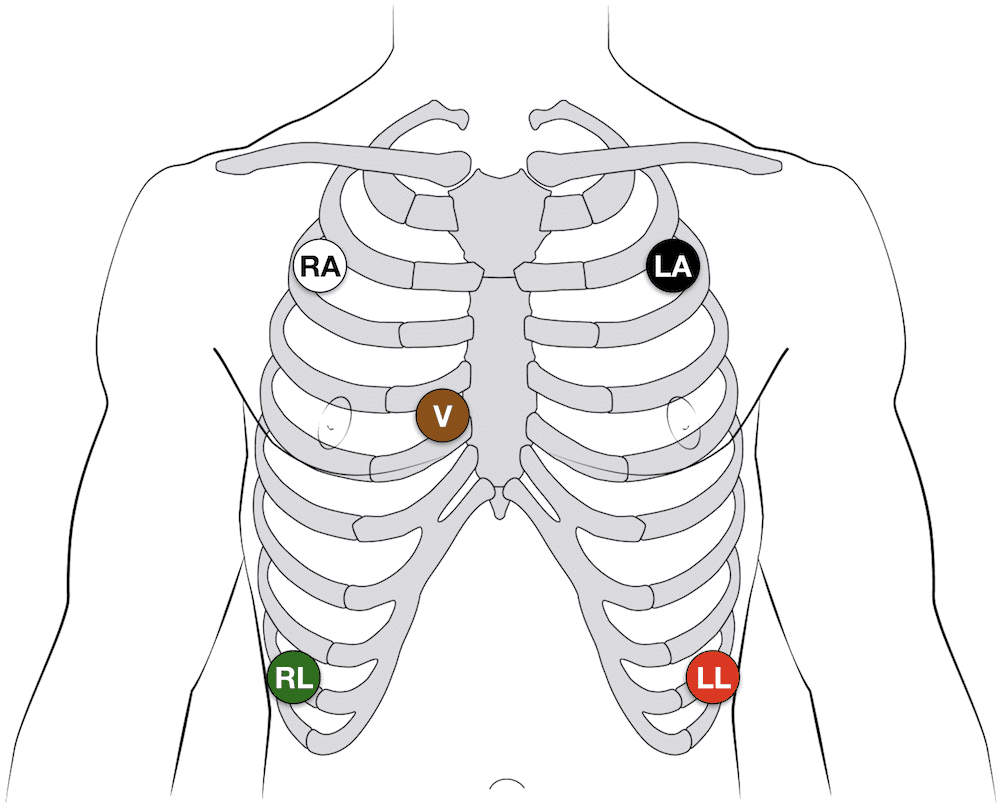
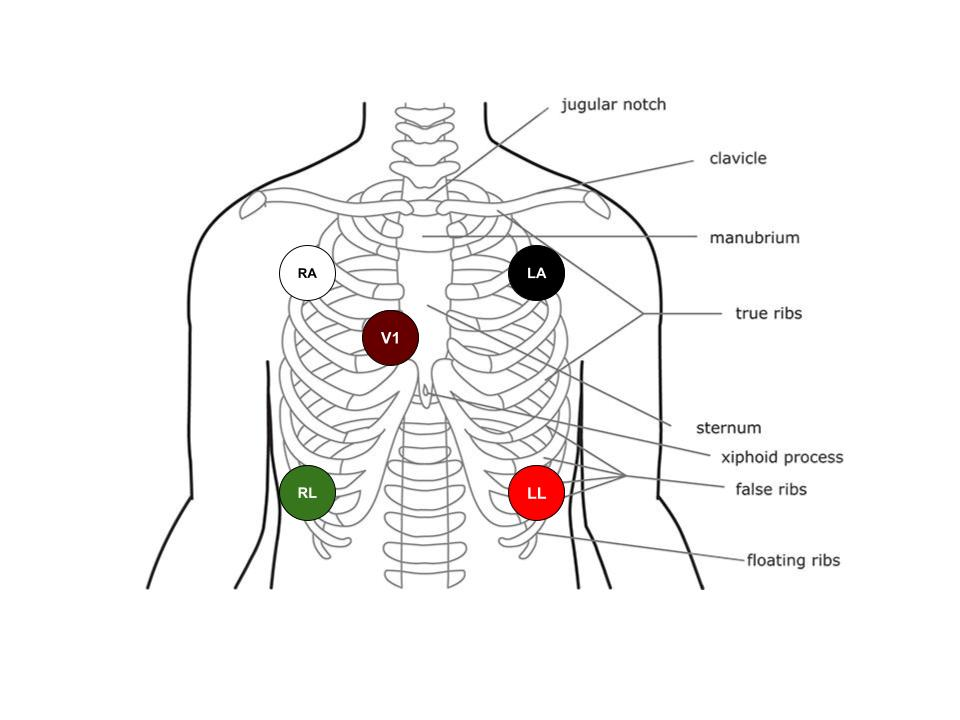
back-to-drawer nav, disclaimer widget, airway items massive updates

diff --git a/js/data.js b/js/data.js
@@ -475,13 +475,13 @@ window.PYXIS_MEDICATIONS = {
 /** Supply bin taxonomy (10 items, 2 rows × 5 columns) */
 window.PYXIS_SUPPLY_BINS = [
   // Row 1
-  { id: "tube-caps",     label: "Tube caps",    row: 1, description: "Red and green tube caps for IV ports and stopcocks. Red = no additive (blood draws), Green = heparinized flush. Know your institution's color coding." },
-  { id: "tourniquets",   label: "Tourniquets",  row: 1, description: "Used for IV placement — tighten proximal to intended IV site to engorge veins. Release as soon as flashback is seen. PIV placement tutorial coming soon." },
+  { id: "tube-caps",     label: "Tube caps",    row: 1, description: "Red and green tube caps for IV ports and stopcocks. Red = no additive (blood draws), Green = alcohol-based disinfecting cap. This is Yale's color coding, but make sure to know your institution's color coding. You may be asked to fetch caps from supply bins based on their color or context." },
+  { id: "tourniquets",   label: "Tourniquets",  row: 1, description: "Used for IV placement. Tighten proximal to intended IV site to engorge veins. For example, if you are aiming to place a PIV in a hand vein, it is appropriate to tie to tourniquet using proper technique at the forearm or above the antecubital fossa. Try not to place the PIV on the same side as the blood pressure cuff. The tourniquet should be released after the IV catheter is threaded into the vein. A detailed PIV placement tutorial is coming soon!" },
   { id: "alcohol-wipes", label: "Alcohol wipes", row: 1, description: "70% isopropyl pads for IV site prep, needle prep, and general antisepsis. Allow to dry before insertion for best effect." },
   { id: "gauze",         label: "Gauze + Saline Flushes",         row: 1, description: "You may find it useful to have a bunch of 4×4 gauze pads for field prep, bleeding control, airway work, and general OR use. Saline flushes are also often useful for pushing/mixing drugs or cleaning things. One way to be helpful in the OR is to help the team apply gauze to patients' wounds and incisions to control bleeding, or use saline flushes with gauze to clean up blood, spills, saliva, tears, or other bodily fluids. Remember, the saline inside the flush is sterile but the syringe itself is NOT!" },
   { id: "tape",          label: "Tape",          row: 1, description: "Multiple types: silk tape for ETT securing, paper tape for wound wrapping, clear Tegaderm-style for A-lines and IVs. Know which tape for which use." },
   // Row 2
-  { id: "ecg-stickers",  label: "ECG stickers",  row: 2, description: "5-lead ECG electrode pads (RA, LA, RL, LL, V lead). One of the easiest ways you can help out in both the OR and postop is to help the team place ECG lead stickers and monitors on patients. Make sure you place them with full contact and correctly to minimize artifacts! Remember the mnemonic: clouds over grass, smoke over fire, dirt in between." },
+  { id: "ecg-stickers",  label: "ECG stickers",  row: 2, description: "5-lead ECG electrode pads (RA, LA, RL, LL, V1 lead). One of the easiest ways you can help out in both the OR and postop is to help the team place ECG lead stickers and monitors on patients. Make sure you place them with full contact and correctly to minimize artifacts! This configuration of 5-leads ECG is known as the Mason-Likar Lead system, meant to reduce motion artifact during continuous monitoring while allowing patient mobility. Specifically, the V1 lead is placed in the 4th intercostal space at the right sternal border, commonly used for arrhythmia monitoring (Circulation, Sandau et al, 2017). Other V-lead placements along the 4th and 5th intercostal spaces across the left side of the chest (think back to our standard 12-lead configuration) are commonly used to monitor myocardial ischemia. When helping set up the patient monitors, remember the mnemonic: clouds over grass, smoke over fire, dirt in between." },
   { id: "oral-airways",  label: "Oral airways",  row: 2, description: "OPAs for maintaining airway in unconscious patients. Size by measuring corner of mouth to earlobe. Do not use in conscious patients as it triggers gag reflex. For patients with difficult airways to unresposive to normal masking, these may be super helpful to keep in mind." },
   { id: "lab-tubes",     label: "Lab tubes",     row: 2, description: "Blood collection tubes: purple top (EDTA → CBC), green top (lithium heparin → BMP), blue top (citrate → coag/PT/INR), gold top (serum separator → type & screen)." },
   { id: "tegaderms",     label: "Tegaderms",     row: 2, description: "Transparent polyurethane film dressing, standard for securing peripheral IVs and central line sites while maintaining visualization of the insertion site. One useful thing you can do in the morning is to help prepare PIV kits, which require TWO tegaderms, one 18G, one 20G needles, alcohol wipes, tourniquets, gauze, saline flush, and IV extension connectors." },
@@ -514,12 +514,13 @@ window.PYXIS_LEFT_DRAWERS = [
     label: "Airway",
     shortLabel: "Airway",
     items: [
-      { id: "mac-blade",   name: "MAC Blade",           category: "Laryngoscopy",           description: "Curved Macintosh blade — tip goes in the vallecula (anterior to epiglottis). Common sizes: MAC 3 (average adult), MAC 4 (large adult). Technique: lift the handle forward-upward, never lever on the teeth." },
-      { id: "ett",         name: "Endotracheal Tube",   category: "Intubation",             description: "Cuffed tubes for a definitive airway. Adults: 7.0–7.5 ID for females, 7.5–8.0 ID for males. Confirm position: bilateral breath sounds, ETCO₂ waveform, symmetric chest rise, CXR." },
-      { id: "lma",         name: "LMA",                 category: "Supraglottic airway",    description: "Laryngeal Mask Airway — sits in the hypopharynx over the laryngeal inlet. Does NOT protect against aspiration. Classic, ProSeal, i-gel variants available. Size by patient weight." },
-      { id: "glidescope",  name: "GlideScope",          category: "Video laryngoscopy",     description: "Video laryngoscope with a 60° blade curve. Provides indirect view without direct line-of-sight. Use with a malleable stylet shaped to the blade curve. Particularly helpful in anticipated difficult airways." },
-      { id: "bougie",      name: "Bougie",              category: "Difficult airway adjunct", description: "Tracheal introducer — used when you can visualize the epiglottis but not the cords. Insert under epiglottis, feel 'tracheal clicks', thread ETT over bougie. Essential rescue tool in unexpected difficult airways." },
-      { id: "bag-mask",    name: "Bag-Valve Mask",      category: "Emergency ventilation",  description: "BVM for manual ventilation — preoxygenation, rescue BMV during failed intubation, or patient transport. EC-clamp grip for 1-person mask seal. 2-person technique (one seals, one squeezes) if significant leak." },
+      { id: "mac-blade",   name: "MAC Blade",           category: "Laryngoscopy",           description: "A Macintosh (Mac) blade is a curved laryngoscope blade used for direct laryngoscopy that is inserted into the vallecula (the space between the base of the tongue and the epiglottis) to indirectly lift the epiglottis and expose the vocal cords for endotracheal intubation. Insertion technique is to bring the patient head to your sternum to optimize visibility of the cords. The blade is inserted into the right side of the mouth, then advanced while sweeping the tongue to the left. The tip is positioned in the vallecula, and the entire blade is lifted upward and forward at a 45-degree angle (in the direction of the handle) to expose the glottis. Insert gently and do NOT lever the blade (called 'rocking') - it neither helps visualize and risks tooth chipping and trauma. Contrast to a Miller blade, which has more of a straight blade meant for anterior larynx, large floppy epiglottis, or limited mouth openings." },
+      { id: "ett",         name: "Endotracheal Tube",   category: "Intubation",             description: "An endotracheal tube (ETT) is a flexible plastic tube inserted through the mouth or nose into the trachea to establish a definitive airway for mechanical ventilation, airway protection, and oxygenation in critically ill or anesthetized patients. Key components include the tube body (with centimeter deep markings), angled bevel (at the tip to aid insertion), murphy eye (side hole that allows for alternative airway), cuff (inflatable balloon that seals the airway), and a connector to the ventilator. ETTs are sized by internal diameter in millimeters. Common adult sizes are 7.0-8.0 mm, though the outer diameter varies by manufacturer even with the same ID. Height-based selection is more accurate than sex-based selection: typically 7.0 mm for height ≤160 cm, 7.5 mm for 161-179 cm, and 8.0 mm for ≥180 cm. Pediatric tube sizing is typically age divided by 4 + 4 for uncuffed, + 3.5 for cuffed. Insertion depth is usually the internal diameter number multiplied by 3." },
+      { id: "lma",         name: "LMA",                 category: "Supraglottic airway",    description: "LMAs are sized 1-6 based on patient weight. Common adult sizes are size 3 (30-50 kg), size 4 (50-70 kg), and size 5 (>70 kg). However, sex-based selection (size 4 for females, size 5 for males) often provides better seal and less air leak than weight-based selection. Larger sizes generally provide higher oropharyngeal leak pressures and better fiberoptic views. A key consideration is that LMAs do NOT protect against aspiration, so contraindicated in patients with full stomach, emergency surgery, obesity, pregnancy, symptomatic GERD, or hiatal hernia. It's also less suitable for procedures requiring high airway pressures (>20-25 cmH₂O) due to risk of gastric insufflation. Otherwise, key advantages include easy insertion without laryngoscopy, less hemodynamic and airway stimulation, and can be used for both spontaneous and positive pressure ventilation. Classic, ProSeal, i-gel variants available. Image courtesy of Lighthall et al, NEJM, 2013." },
+      { id: "glidescope",  name: "GlideScope",          category: "Video laryngoscopy",     description: "Video laryngoscopy is an intubation technique that uses a laryngoscope with a camera at the tip of the blade that displays the airway on a video screen, allowing visualization of the vocal cords without requiring a direct line of sight from the mouth. At Yale, we use the GlideScope, with clear plastic, single-use interchangeable MAC blades. GlideScope is a specific brand of video laryngoscope characterized by its acutely angled (hyperangulated) blade that provides an improved glottic view. We typically use a MAC 3 blade, but sometimes use MAC 4 for bigger adults. Due to hyperangulation, sometimes you may need to sweep the tongue out of the way to advance the blade. As you advance, make sure to visualize the epiglottis and insert the tip of the blade into the vallecula. Other tips and tricks for consistent intubation success with the GlideScope are coming soon!" },
+      { id: "bougie",      name: "Bougie",              category: "Difficult airway adjunct", description: "A bougie (also called a tracheal tube introducer or Eschmann stylet) is a long, semi-rigid, flexible guide used to facilitate endotracheal intubation when the glottic opening is difficult to visualize. It serves as a 'railroad track' over which the endotracheal tube can be advanced into the trachea. Indications usually for difficult intubations, which can be objectively graded using the Cormack-Lehane scale (Annals of Emergency Medicine, Latimer et al, 2020). During laryngoscopy, the bougie is advanced with the angled tip pointing anteriorly toward the expected glottic opening. Once inserted, glottic opening.tracheal placement is confirmed by feeling 'tracheal clicks' as the tip bumps along the cartilaginous tracheal rings, and/or 'hold-up' at approximately 28-32 cm when the tip reaches a distal bronchus. The ETT is then railroaded over the bougie with a 90-degree counterclockwise rotation to prevent the tube tip from catching on the arytenoids." },
+      { id: "bag-mask",    name: "Bag-Valve Mask",      category: "Emergency ventilation",  description: "Bag-valve-mask ventilation is a manual positive-pressure ventilation technique using a self-inflating bag connected to a face mask to provide oxygenation and ventilation to patients who cannot breathe adequately on their own. Indications include respiratory arrest, cardiac arrest, apnea during RSI, failed intubation, or preoxygenation before definitive airway attempts. You may be asked to perform mask ventilation for preoxygenation in the OR, or occasionally for emergency indications in the ICU/emergency room rotation. Proper technique is called the E-C clamp. It is a one-handed technique where the thumb and index finger form a 'C' shape to create an airtight seal over the nose and mouth, while the remaining three fingers (middle, ring, pinky) form an 'E' shape along the lower edge of the jaw to elevate the mandible and open the airway. This technique simultaneously achieves mask seal and airway patency through jaw thrust/chin lift. OPAs/NPAs may assist in increasing ventilation, and parameters should be adjusted to respiratory rate of 10/min, inspiratory time of 1 second, and tidal volumes of 500~600 mL (NEJM, Casey et al, 2019). Confirm effectiveness by observing symmetric chest rise, breath sounds, and if available, ETCO₂ waveform. Remember, two-person technique has been shown to always be superior to one-person, if available. Image courtesy of Shrestha et al, NEJM, 2021." },
+      { id: "afio",    name: "Fiberoptic Intubation",      category: "Difficult airway adjunct",  description: "Fiberoptic intubation (FOI) is a technique using a flexible bronchoscope to visualize the airway in real-time and guide an endotracheal tube into the trachea. It is considered the gold standard for managing anticipated difficult or even threatened airways (e.g. parapharyngeal abscess with worsening trismus, odynophagia, and respiratory symptoms), particularly when performed with the patient awake and spontaneously breathing. It includes a flexible bronchoscope and a pre-loaded endotracheal tube (usually a nasopharyngeal access). The ASA Difficult Airway Algorithm is the key criteria for determining awake vs. asleep intubations. In awake fiberoptic intubations, the patient is kept awake with conscious sedation on low-dose dexmetomidine. The airway is locally anesthesized using lidocaine nebulizers in an 'as-you-go' fashion (be careful with CKD patients for lidocaine). Do NOT put the patient to sleep before you achieve an airway in threatened patients. Oxymetazoline and glycopyrrolate as necessary. Always have video laryngoscopy, LMA, and a surgical (ENT preferred) team present in case you need to do an awake tracheostomy. One way of assessing airway difficulty that you may see in anesthesia pre-op patient interviews is the Mallampati score (see above)." },
     ],
   },
   {

diff --git a/js/app.js b/js/app.js
@@ -20,6 +20,8 @@
   const detailTitle   = document.getElementById("modal-detail-title");
   const detailBody    = document.getElementById("modal-detail-body");
   const detailClose   = document.getElementById("modal-detail-close");
+  const detailBack    = document.getElementById("modal-detail-back");
+  const detailFooter  = document.getElementById("modal-detail-footer");
   const mainDrawerEls = document.querySelectorAll(".main-drawer");
   const leftDrawerEls = document.querySelectorAll(".left-drawer");
   const cellEls       = document.querySelectorAll(".drawer-cell");
@@ -67,14 +69,15 @@
     modalContents.showModal();
   }
 
-  function openDetailModal(title, bodyHtml) {
-    detailTitle.textContent = title;
-    detailBody.innerHTML    = bodyHtml;
+  function openDetailModal(title, bodyHtml, fromDrawer = false) {
+    detailTitle.textContent  = title;
+    detailBody.innerHTML     = bodyHtml;
+    detailFooter.hidden      = !fromDrawer;
     modalDetail.showModal();
   }
 
   // ── Render helpers ─────────────────────────────────────────────────────
-  function renderMedicationDetail(medId) {
+  function renderMedicationDetail(medId, fromDrawer = false) {
     const med = meds[medId];
     if (!med) return;
 
@@ -113,10 +116,10 @@
       </dl>
       ${med.pearl ? `<div class="detail-pearl"><span class="detail-pearl__label">Attending Pearl</span>${escapeHtml(med.pearl)}</div>` : ""}`;
 
-    openDetailModal(med.name, html);
+    openDetailModal(med.name, html, fromDrawer);
   }
 
-  function renderEquipmentDetail(item) {
+  function renderEquipmentDetail(item, fromDrawer = false) {
     if (!item) return;
     const html = `
       <div class="detail-image-area">
@@ -127,7 +130,7 @@
       </div>
       <p class="detail-category">${escapeHtml(item.category || "")}</p>
       <p class="detail-body">${escapeHtml(item.description || "")}</p>`;
-    openDetailModal(item.name, html);
+    openDetailModal(item.name, html, fromDrawer);
   }
 
   // ── Selection handlers ─────────────────────────────────────────────────
@@ -152,10 +155,7 @@
     );
 
     contentsBody.querySelectorAll(".med-tile").forEach(tile => {
-      tile.addEventListener("click", () => {
-        modalContents.close();
-        renderMedicationDetail(tile.dataset.medId);
-      });
+      tile.addEventListener("click", () => renderMedicationDetail(tile.dataset.medId, true));
     });
   }
 
@@ -178,10 +178,7 @@
 
     contentsBody.querySelectorAll(".equip-tile").forEach(tile => {
       const item = (drawer.items || []).find(i => i.id === tile.dataset.itemId);
-      tile.addEventListener("click", () => {
-        modalContents.close();
-        renderEquipmentDetail(item);
-      });
+      tile.addEventListener("click", () => renderEquipmentDetail(item, true));
     });
   }
 
@@ -338,7 +335,11 @@
 
   // ── Wire up controls ───────────────────────────────────────────────────
   contentsClose?.addEventListener("click", () => modalContents?.close());
-  detailClose?.addEventListener("click", () => modalDetail?.close());
+  detailClose?.addEventListener("click", () => {
+    modalDetail?.close();
+    if (modalContents?.open) modalContents.close();
+  });
+  detailBack?.addEventListener("click", () => modalDetail?.close());
 
   const sideAuxEl = document.getElementById("side-aux");
   if (sideAuxEl) {

diff --git a/index.html b/index.html
@@ -32,7 +32,7 @@
         <div class="site-header__card">
           <h1>Interactive Pyxis</h1>
           <p>
-            A Pyxis-inspired cheatsheet for clerkship students learning <strong>where</strong> medications and supplies live,
+            A Pyxis-inspired cheatsheet for medical students learning <strong>where</strong> medications and supplies live,
             <strong>what</strong> they are, and <strong>why</strong> they matter.
             You will see these machines in the OR and sometimes in the hospital hallways - feel free to explore!
           </p>
@@ -204,6 +204,9 @@
           <div class="modal__body modal__body--detail" id="modal-detail-body">
             <p class="empty-hint">Choose an item in the drawer to see clinical orientation and pearls.</p>
           </div>
+          <footer class="modal__footer" id="modal-detail-footer" hidden>
+            <button type="button" class="modal__back-btn" id="modal-detail-back" aria-label="Back to drawer">← Back to drawer</button>
+          </footer>
         </div>
       </dialog>
 
@@ -272,7 +275,7 @@
         <div class="disclaimer-widget__inner">
           <p class="disclaimer-widget__heading">Educational Resource — Not for Clinical Decision-Making</p>
           <p class="disclaimer-widget__text">
-            This tool is designed exclusively for medical students on anesthesiology clerkships to build context around
+            This tool is designed exclusively for medical students on anesthesiology rotations to build context around
             what they observe in the OR. The information presented, including drug doses, mechanisms, and clinical pearls
             , is meant to supplement direct teaching, not replace it.
             It should <strong>never be relied upon as the sole basis for patient care decisions.</strong>

diff --git a/ventilator.html b/ventilator.html
@@ -31,12 +31,10 @@
     <div class="vent-intro-card">
       <h1>Interactive Ventilator Simulator</h1>
       <p>
-        A real-time anesthesia workstation simulation for clerkship students. Observe how the
-        <strong style="color:#a8c8e8">vitals monitor</strong>, <strong style="color:#a8c8e8">ventilator</strong>, <strong style="color:#a8c8e8">Train-of-Four (TOF)</strong>
-        and <strong style="color:#a8c8e8">Bispectral Index (BIS) monitor</strong> behave together during a general anesthetic.
-        Use the controls below to adjust ventilator settings and patient physiology — changes propagate
-        immediately to waveforms, pressures, and gas values. Watch the alarm panel to learn
-        clinically meaningful thresholds. This is an <strong style="color:#a8c8e8">experimental prototype</strong>.
+        A <strong style="color:#a8c8e8">anesthesia workstation simulation</strong> for medical students. Observe how the
+        physiologic values on the monitors below behave together during a general anesthetic.
+        Use the controls below to adjust ventilator settings and patient physiology. Changes propagate
+        immediately to waveforms, pressures, and gas values. This is a <strong style="color:#a8c8e8">work-in-progress</strong> with possibly bugs. We are constantly improving the model, fine-tuning dynamics, and pursuing clinical reality. <br><br>Core ventilator logic is based on <em>Manual of Clinical Anesthesiology</em> by Chu, Traynor, and Kurup.
       </p>
     </div>
 

diff --git a/css/styles.css b/css/styles.css
@@ -803,6 +803,34 @@ body {
   min-width: 0;
 }
 
+.modal__footer {
+  padding: 0.6rem 1rem;
+  border-top: 1px solid var(--panel-border);
+  background: rgba(248, 245, 241, 0.9);
+  display: flex;
+  justify-content: center;
+  border-radius: 0 0 var(--radius-lg) var(--radius-lg);
+}
+
+.modal__back-btn {
+  appearance: none;
+  background: none;
+  border: 1px solid rgba(40, 109, 192, 0.3);
+  border-radius: var(--radius-sm);
+  padding: 0.35rem 0.9rem;
+  font-size: 0.78rem;
+  font-weight: 600;
+  color: var(--accent);
+  cursor: pointer;
+  letter-spacing: 0.01em;
+  transition: background 0.15s, border-color 0.15s;
+}
+
+.modal__back-btn:hover {
+  background: rgba(40, 109, 192, 0.08);
+  border-color: var(--accent);
+}
+
 .modal__eyebrow {
   margin: 0;
   font-size: 0.6875rem;
